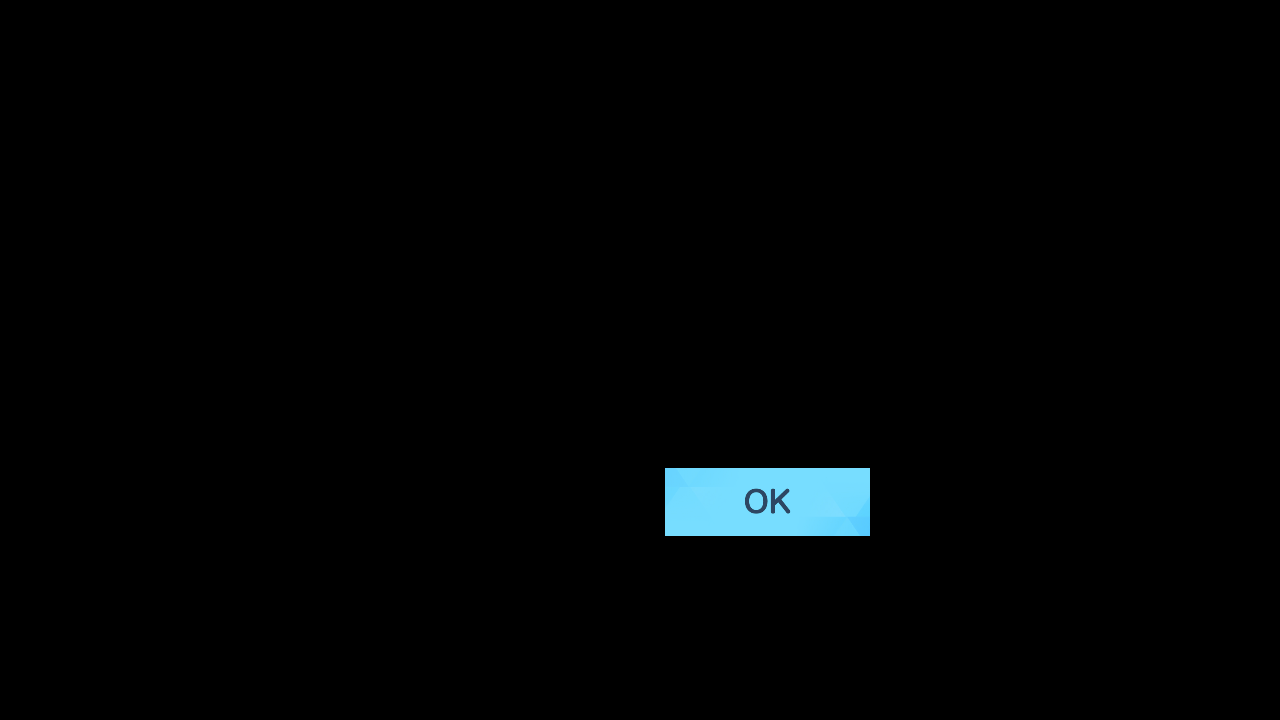
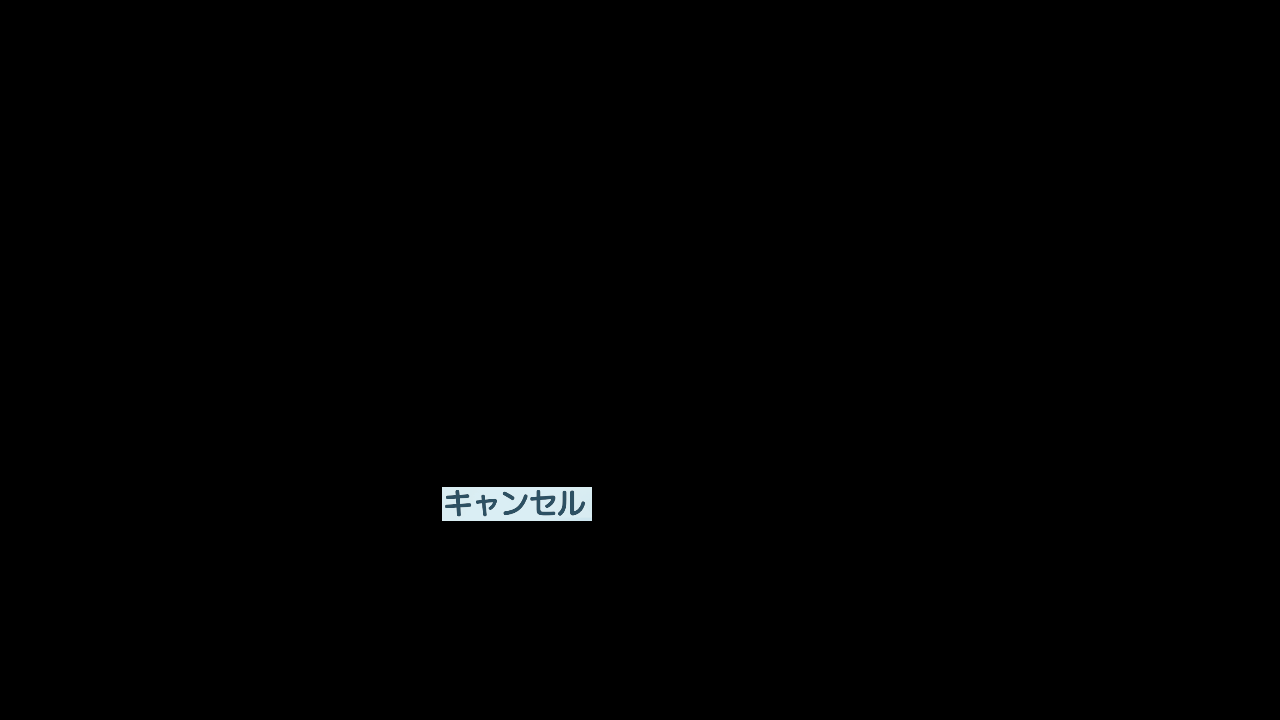
fix: change network reconnect button

Changed region(s): [[0.5, 0.6417, 0.6875, 0.7639], [0.3438, 0.6722, 0.4688, 0.7333]]

diff --git a/tasks/base/assets/assets_base_popup.py b/tasks/base/assets/assets_base_popup.py
@@ -256,7 +256,7 @@ NETWORK_RECONNECT_OK = ButtonWrapper(
         area=(744, 487, 791, 515),
         search=(724, 467, 811, 535),
         color=(91, 165, 196),
-        button=(665, 468, 870, 536),
+        button=(442, 487, 592, 521),
     ),
     en=Button(
         file='./assets/en/base/popup/NETWORK_RECONNECT_OK.png',
